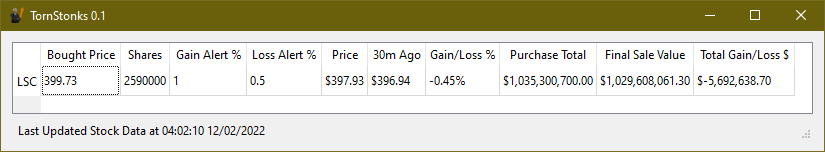
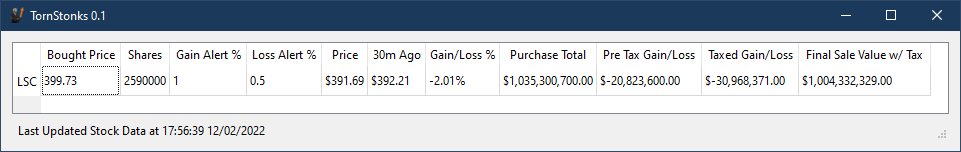
Clarify certain cells, add pre taxed column

diff --git a/main.py b/main.py
@@ -366,18 +366,19 @@ class App(QWidget):
 		self.table_widget = QTableWidget()
 		global num_stonks
 		self.table_widget.setRowCount(num_stonks)
-		self.table_widget.setColumnCount(10)
+		self.table_widget.setColumnCount(11)
 		self.table_widget.setHorizontalHeaderLabels(
-			["Bought Price",    #0
-			"Shares",           #1
-			"Gain Alert %",     #2
-			"Loss Alert %",     #3
-			"Price",            #4
-			"30m Ago",  #5
-			"Gain/Loss %",      #6
-			"Purchase Total",   #7
-			"Final Sale Value", #8
-			"Total Gain/Loss $"]#9
+			["Bought Price",            #0
+			"Shares",                   #1
+			"Gain Alert %",             #2
+			"Loss Alert %",             #3
+			"Price",                    #4
+			"30m Ago",                  #5
+			"Gain/Loss %",              #6
+			"Purchase Total",           #7
+			"Pre Tax Gain/Loss",        #8
+			"Taxed Gain/Loss",          #9
+			"Final Sale Value w/ Tax"]  #10
 		)
 		self.table_widget.move(0,0)
 		self.table_widget.setSizeAdjustPolicy(QtWidgets.QAbstractScrollArea.AdjustToContents)
@@ -443,8 +444,9 @@ class App(QWidget):
 						self.table_widget.setItem(y, 4, QTableWidgetItem("$"+str(item["price"])))
 						self.table_widget.setItem(y, 5, QTableWidgetItem("$"+str(item["interval"]["m30"]["price"])))
 						tax_res = float(user_data["shares"][y]) * float(item["price"])
-						self.table_widget.setItem(y, 8, QTableWidgetItem("$"+str("{:,.2f}".format(tax_res * 0.999))))
+						self.table_widget.setItem(y, 8, QTableWidgetItem("$"+str("{:,.2f}".format((tax_res)-float(user_data["buy"][y])*float(user_data["shares"][y])))))
 						self.table_widget.setItem(y, 9, QTableWidgetItem("$"+str("{:,.2f}".format((tax_res * 0.999)-float(user_data["buy"][y])*float(user_data["shares"][y])))))
+						self.table_widget.setItem(y, 10, QTableWidgetItem("$"+str("{:,.2f}".format(tax_res * 0.999))))
 			if not self.no_notification and y == (num_stonks - 1):
 				if self.not_recently_notified:
 					# This silences notifications when starting TornStonks
@@ -513,8 +515,9 @@ class App(QWidget):
 						self.table_widget.setItem(row, 6, QTableWidgetItem(str("{:.2f}".format(perc)) + "%"))
 						self.table_widget.setItem(row, 7, QTableWidgetItem("$"+str("{:,.2f}".format(float(user_data["shares"][row]) * float(user_data["buy"][row])))))
 						tax_res = float(user_data["shares"][row]) * curr_price
-						self.table_widget.setItem(row, 8, QTableWidgetItem("$"+str("{:,.2f}".format(tax_res * 0.999))))
-						self.table_widget.setItem(row, 9, QTableWidgetItem("$"+str("{:,.2f}".format((tax_res * 0.999)-float(user_data["buy"][row])*float(user_data["shares"][row])))))
+						self.table_widget.setItem(row, 8, QTableWidgetItem("$"+str("{:,.2f}".format((tax_res)-float(user_data["buy"][row])*float(user_data["shares"][row])))))
+						self.table_widget.setItem(row, 9, QTableWidgetItem("$"+str("{:,.2f}".format((tax_res * 0.99)-float(user_data["buy"][row])*float(user_data["shares"][row])))))
+						self.table_widget.setItem(row, 10, QTableWidgetItem("$"+str("{:,.2f}".format(tax_res * 0.99))))
 					else:
 						self.table_widget.setItem(row, 6, QTableWidgetItem("N/A"))
 				elif col == 1:
